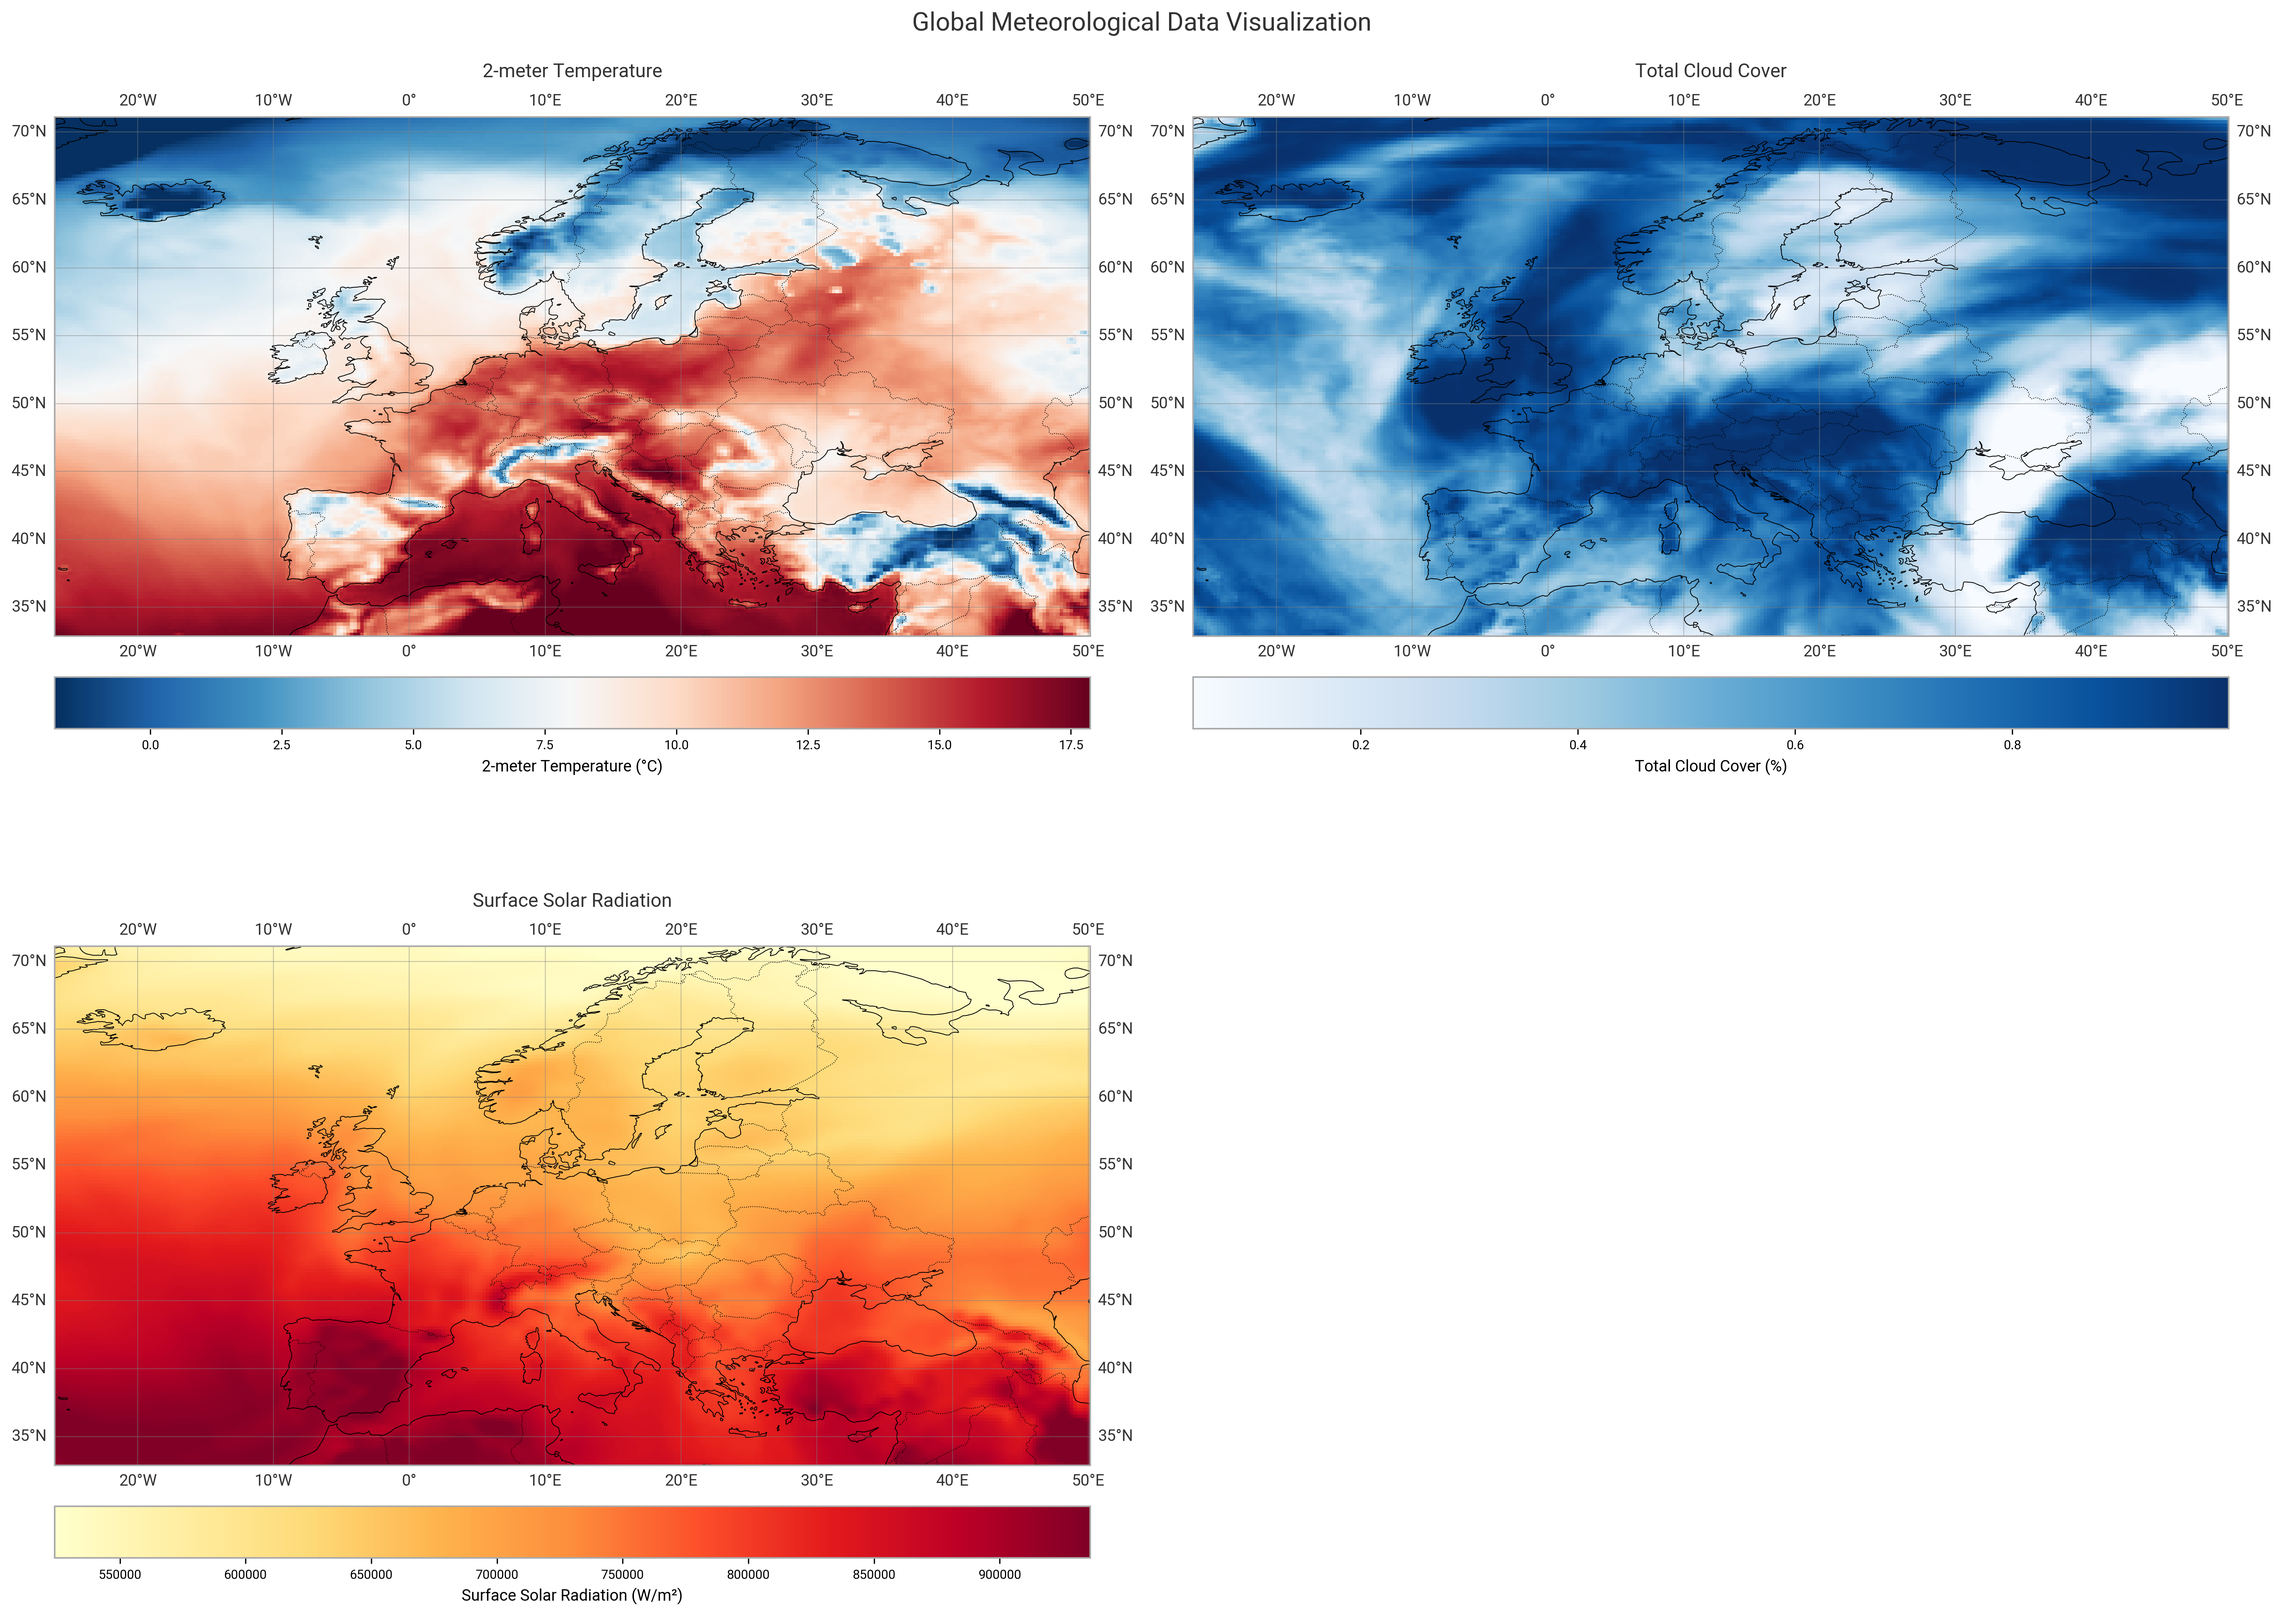
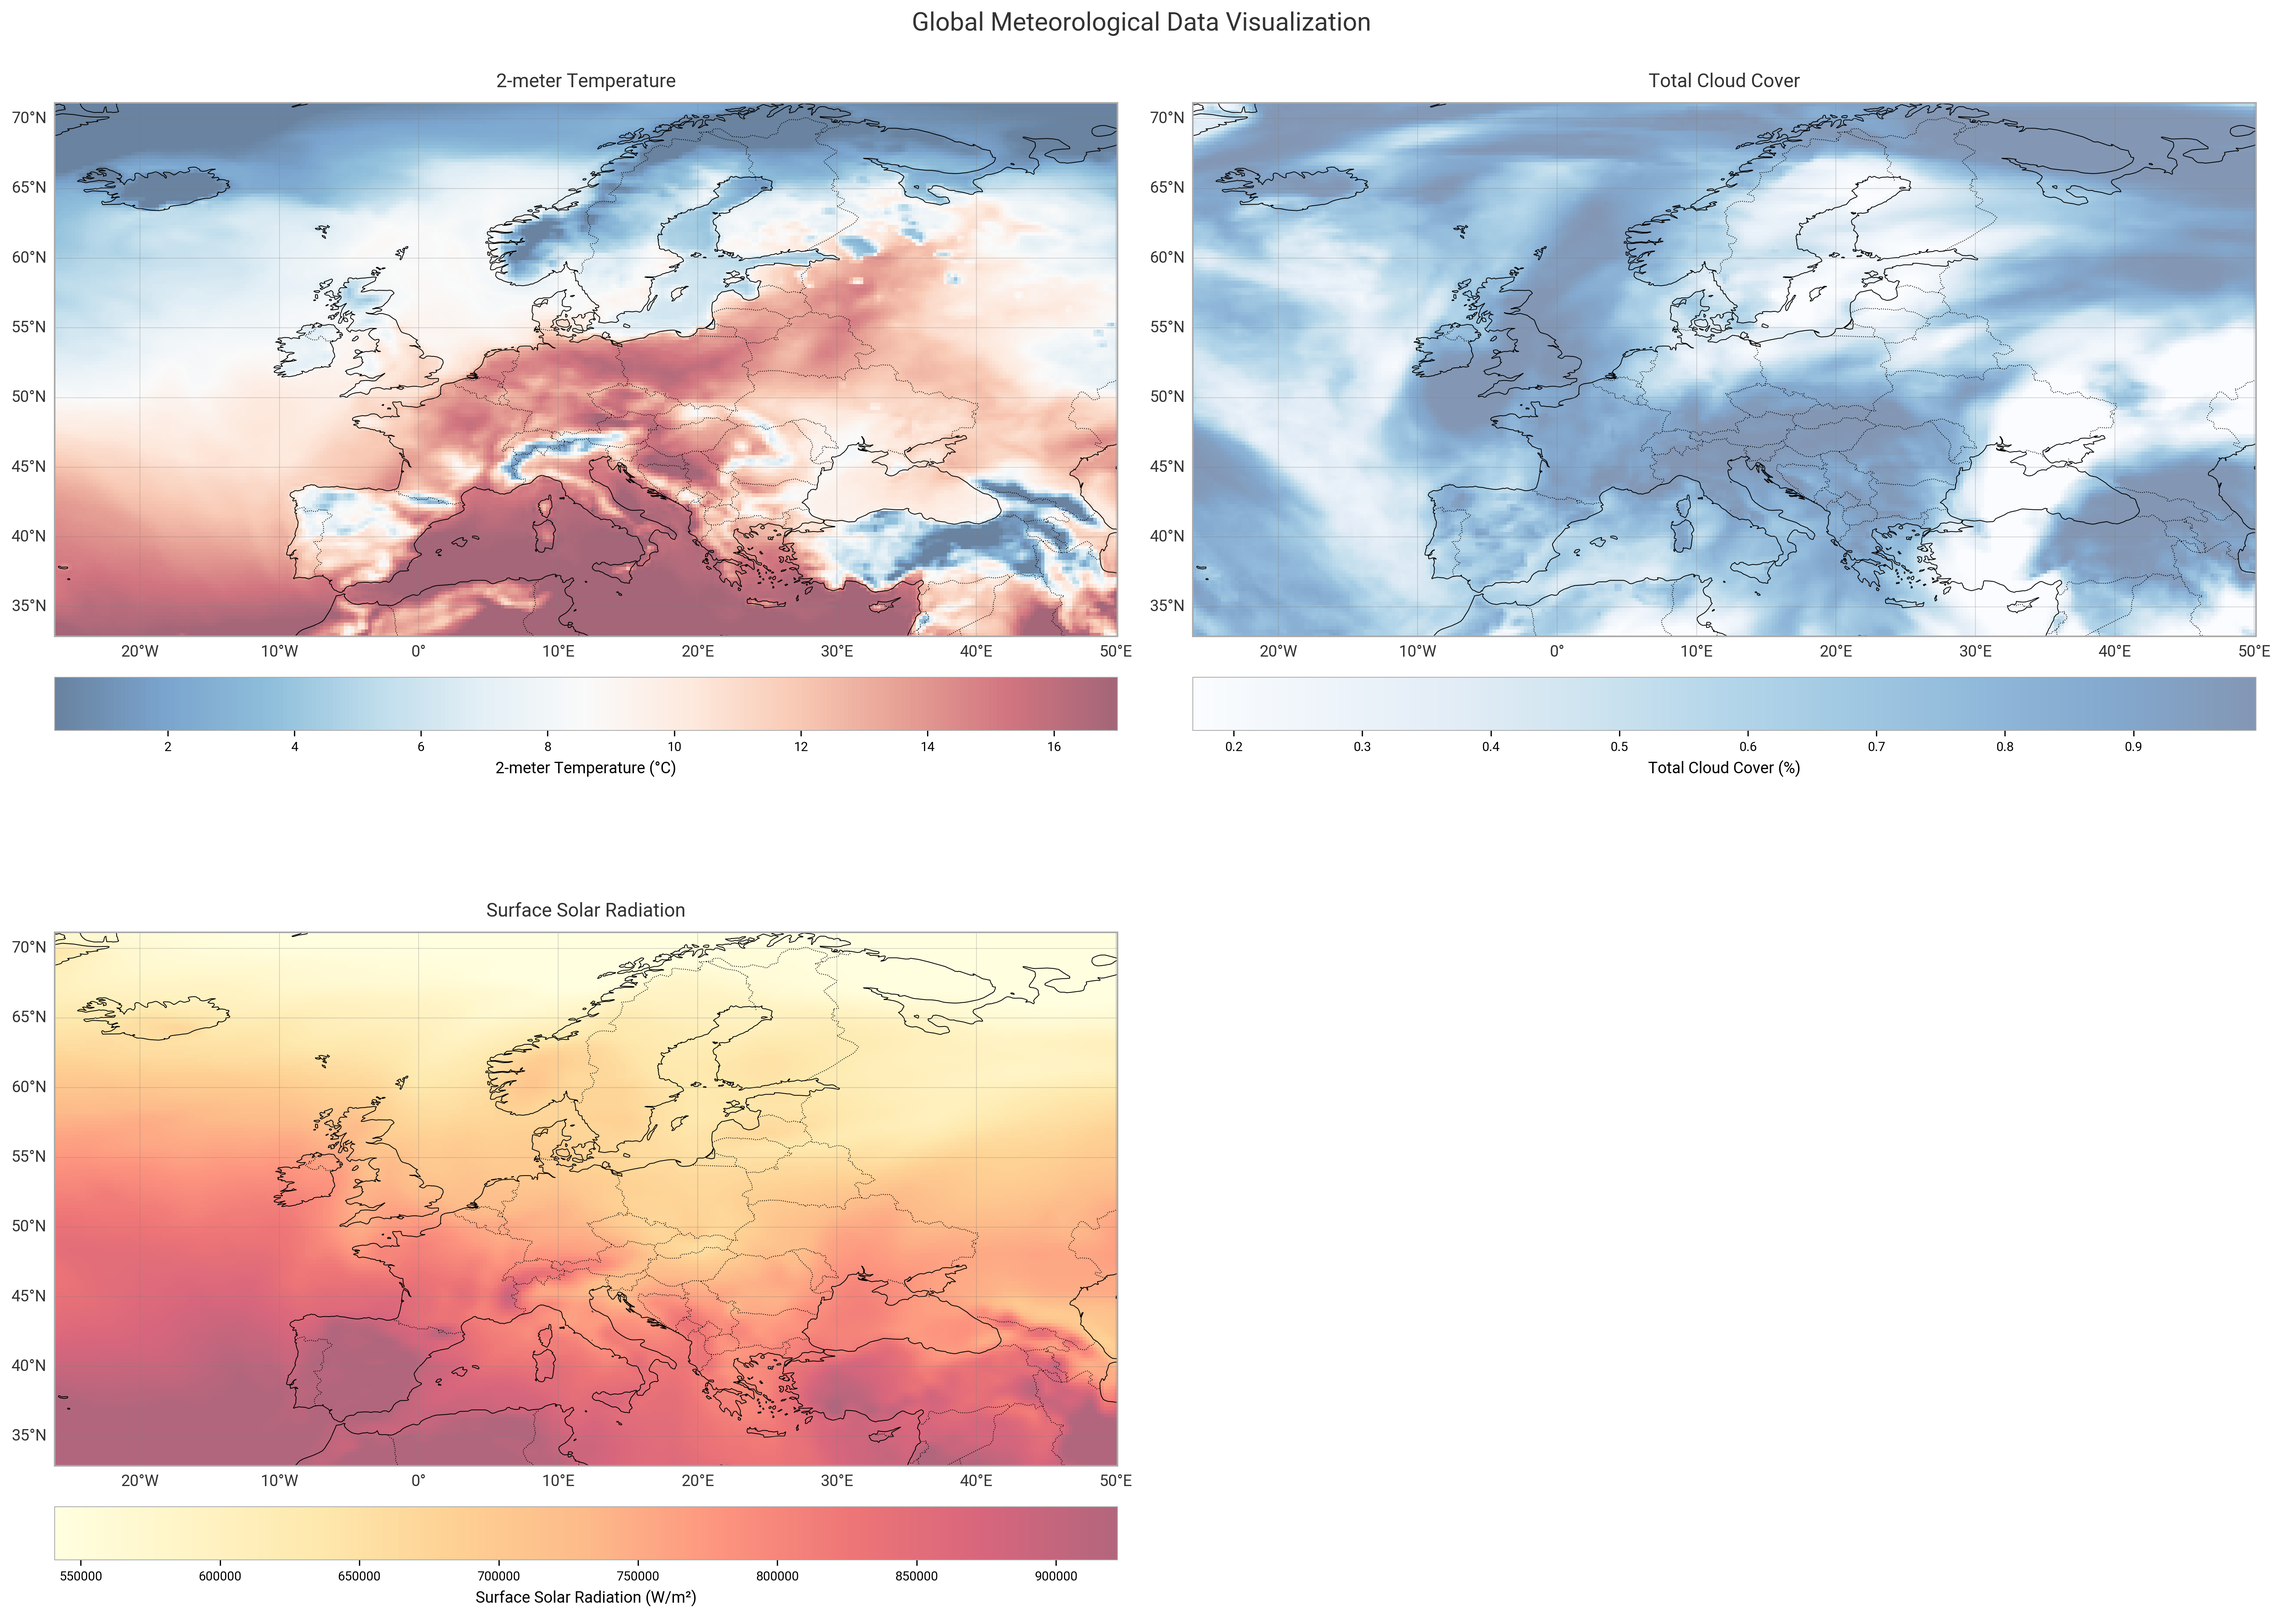
Smoother color

diff --git a/visualise.py b/visualise.py
@@ -7,13 +7,26 @@ from datetime import datetime, timedelta
 import cmocean  # for better colormaps
 import pandas as pd  # for datetime handling
 import os
+from matplotlib.colors import LinearSegmentedColormap
 
 def load_dataset(file_path):
     """Load and process NetCDF data."""
     ds = xr.open_dataset(file_path)
     return ds
 
-def create_spatial_plot(data, ax, title, cmap='viridis', units='', vmin=None, vmax=None):
+def create_custom_colormap(base_cmap, alpha=0.7, n_bins=256):
+    """Create a custom colormap with adjusted transparency and smoothness."""
+    # Get the base colormap
+    cmap = plt.cm.get_cmap(base_cmap, n_bins)
+    
+    # Create new colormap with adjusted alpha
+    colors = cmap(np.linspace(0, 1, n_bins))
+    colors[:, -1] = alpha  # Adjust alpha channel
+    
+    # Create new colormap
+    return LinearSegmentedColormap.from_list(f'{base_cmap}_custom', colors)
+
+def create_spatial_plot(data, ax, title, cmap='viridis', units='', vmin=None, vmax=None, alpha=0.7):
     """Create a spatial plot for any variable."""
     # If data has more than 2 dimensions, take the first time step
     if len(data.dims) > 2:
@@ -39,34 +52,41 @@ def create_spatial_plot(data, ax, title, cmap='viridis', units='', vmin=None, vm
     
     # Calculate vmin and vmax if not provided
     if vmin is None:
-        vmin = np.percentile(data.values, 2)  # 2nd percentile
+        vmin = np.percentile(data.values, 5)  # 5th percentile for smoother range
     if vmax is None:
-        vmax = np.percentile(data.values, 98)  # 98th percentile
+        vmax = np.percentile(data.values, 95)  # 95th percentile for smoother range
     
     # Ensure data is 2D
     plot_data = data.values
     if len(plot_data.shape) > 2:
         plot_data = plot_data.squeeze()  # Remove single-dimensional entries
     
+    # Create custom colormap
+    custom_cmap = create_custom_colormap(cmap, alpha=alpha)
+    
     # Plot the data
     im = ax.pcolormesh(lon_mesh, lat_mesh, plot_data,
                       transform=ccrs.PlateCarree(),
-                      cmap=cmap,
+                      cmap=custom_cmap,
                       vmin=vmin,
                       vmax=vmax,
                       shading='auto')
     
-    # Add coastlines and gridlines
-    ax.add_feature(cfeature.COASTLINE, linewidth=0.5)
-    ax.add_feature(cfeature.BORDERS, linestyle=':', linewidth=0.5)
-    ax.gridlines(draw_labels=True, linewidth=0.5, color='gray', alpha=0.5)
+    # Add coastlines and gridlines with reduced opacity
+    ax.add_feature(cfeature.COASTLINE, linewidth=0.5, alpha=1)
+    ax.add_feature(cfeature.BORDERS, linestyle=':', linewidth=0.5, alpha=1)
+    gl = ax.gridlines(draw_labels=True, linewidth=0.5, color='gray', alpha=0.3)
+    gl.top_labels = False
+    gl.right_labels = False
     
-    # Add colorbar
+    # Add colorbar with adjusted appearance
     cbar = plt.colorbar(im, ax=ax, orientation='horizontal', pad=0.05,
                        label=f'{title} ({units})')
     cbar.ax.tick_params(labelsize=8)
+    cbar.outline.set_linewidth(0.5)
     
-    ax.set_title(title, fontsize=12, pad=10)
+    # Set title with reduced font weight
+    ax.set_title(title, fontsize=12, pad=10, fontweight='normal')
     return im
 
 def create_temperature_profile(ds, variable, target_lat, target_lon, ax):
@@ -129,30 +149,36 @@ def main():
             'file': os.path.join(dataset_dir, 'temperature.nc'),
             'variable': 't2m',
             'title': '2-meter Temperature',
-            'cmap': plt.cm.RdBu_r,
+            'cmap': 'RdBu_r',
             'units': '°C',
+            'alpha': 0.6,  # More transparent
             'process_func': lambda x: x - 273.15 if 'units' in x.attrs and 'K' in x.attrs['units'] else x
         },
         'Cloud Cover': {
             'file': os.path.join(dataset_dir, 'cloud_cover.nc'),
-            'variable': 'tcc',  # Total Cloud Cover
+            'variable': 'tcc',
             'title': 'Total Cloud Cover',
-            'cmap': plt.cm.Blues,
+            'cmap': 'Blues',
             'units': '%',
-            'process_func': lambda x: x * 100 if 'units' not in x.attrs else x  # Convert to percentage
+            'alpha': 0.5,  # More transparent
+            'process_func': lambda x: x * 100 if 'units' not in x.attrs else x
         },
         'Radiation': {
             'file': os.path.join(dataset_dir, 'radiation.nc'),
-            'variable': 'cdir',  # Surface Solar Radiation Downwards
+            'variable': 'cdir',
             'title': 'Surface Solar Radiation',
-            'cmap': plt.cm.YlOrRd,
+            'cmap': 'YlOrRd',
             'units': 'W/m²',
+            'alpha': 0.6,  # More transparent
             'process_func': lambda x: x
         }
     }
     
     # Create a figure with three subplots
     fig = plt.figure(figsize=(20, 15))
+    
+    # Set figure background to white
+    fig.patch.set_facecolor('white')
     
     # Load and plot each dataset
     for idx, (name, info) in enumerate(datasets.items(), 1):
@@ -175,18 +201,20 @@ def main():
         # Create subplot
         ax = fig.add_subplot(2, 2, idx, projection=ccrs.PlateCarree())
         
-        # Create the plot
+        # Create the plot with custom alpha
         create_spatial_plot(data, ax, info['title'], 
                           cmap=info['cmap'], 
-                          units=info['units'])
+                          units=info['units'],
+                          alpha=info['alpha'])
     
-    # Add a title for the entire figure
+    # Add a title for the entire figure with reduced weight
     fig.suptitle('Global Meteorological Data Visualization', 
-                 fontsize=16, y=0.95)
+                 fontsize=16, y=0.95, fontweight='normal')
     
-    # Adjust layout and save
+    # Adjust layout and save with high DPI for smoothness
     plt.tight_layout()
-    plt.savefig('meteorological_data.png', dpi=300, bbox_inches='tight')
+    plt.savefig('meteorological_data.png', dpi=300, bbox_inches='tight', 
+                facecolor='white', edgecolor='none')
     plt.close()
     
     # Print summary of created visualization
